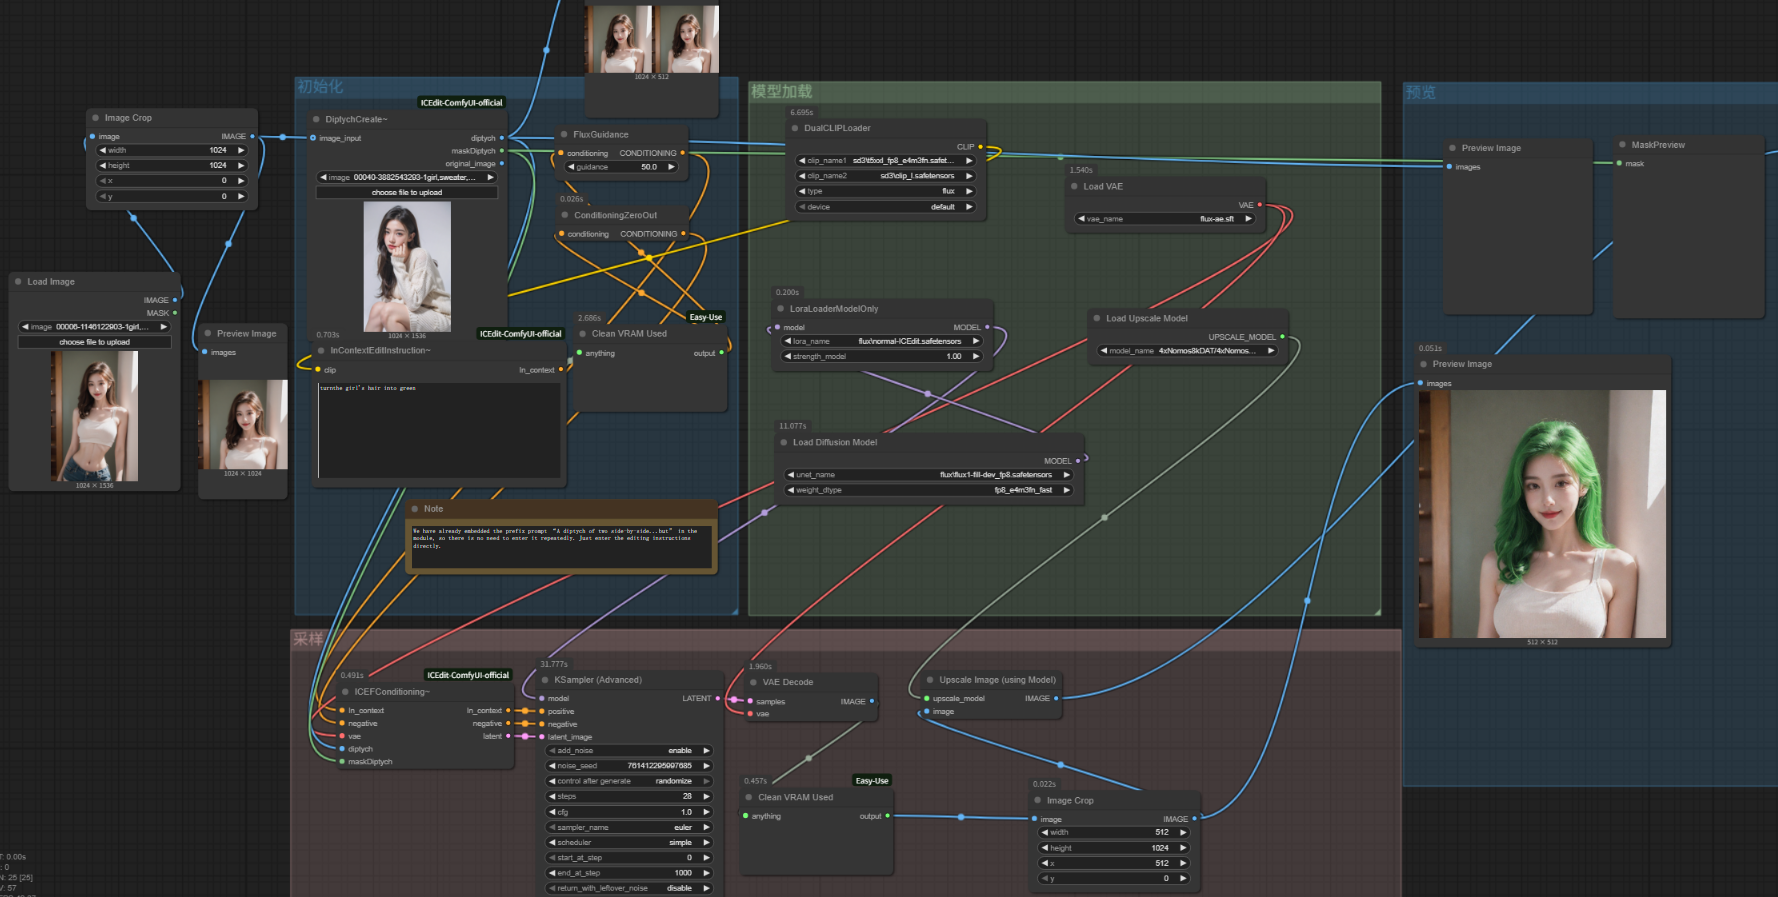
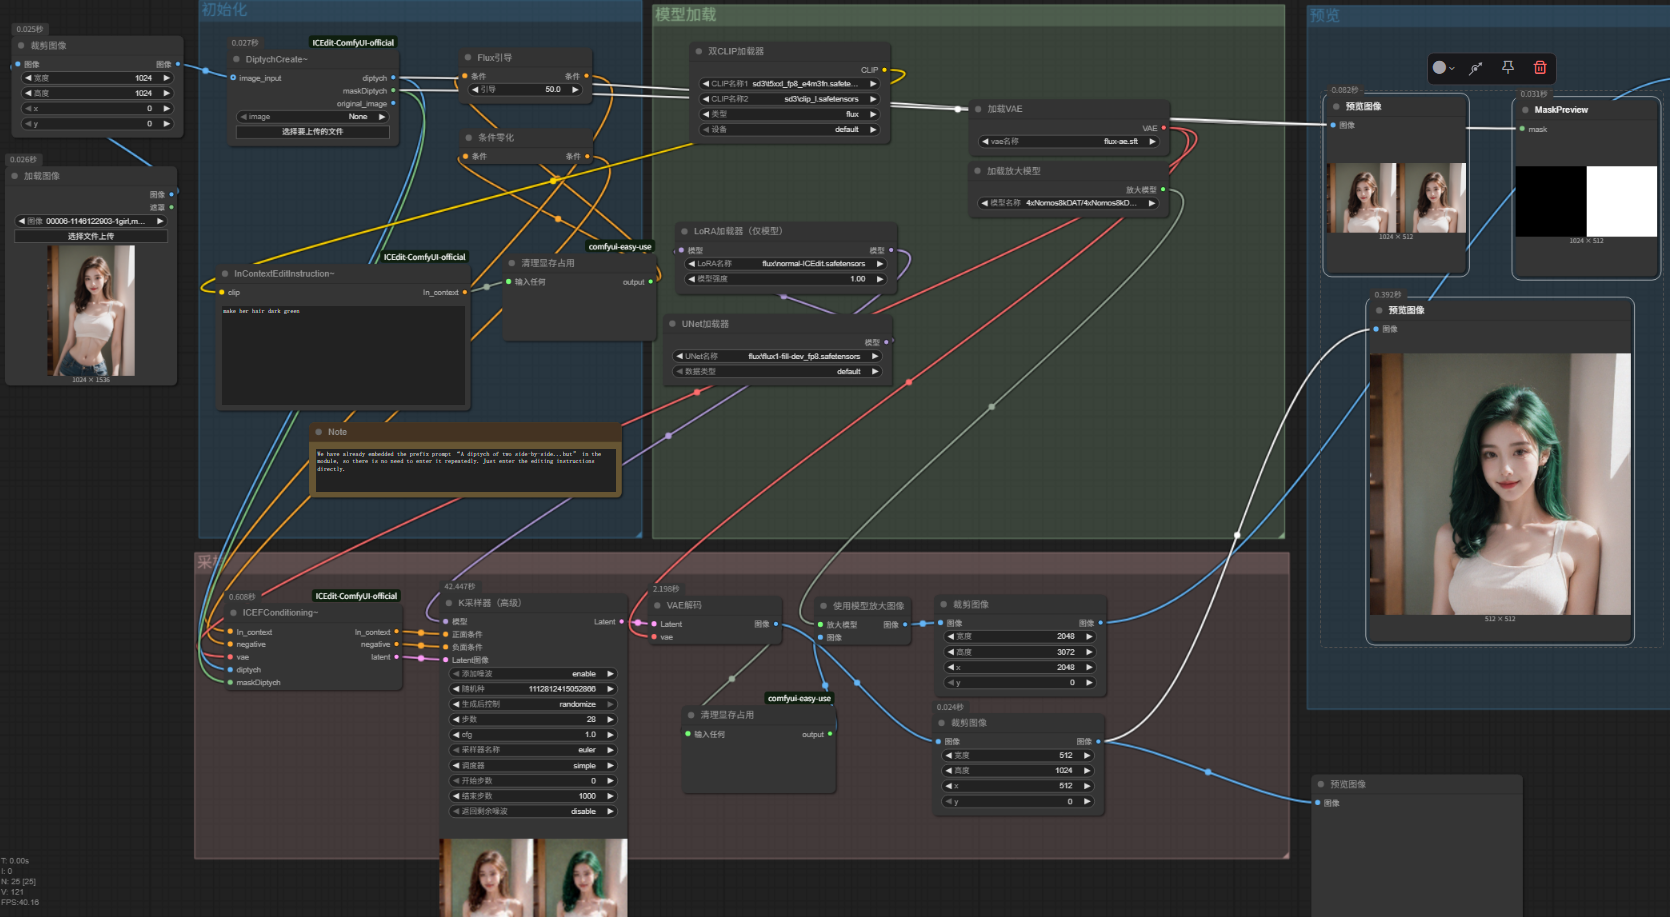
Added default parameter 'none' to DiptychCreate node to avoid requiring a local image to be loaded

diff --git a/ICEF_node.py b/ICEF_node.py
@@ -40,8 +40,9 @@ class DiptychCreate:
     def INPUT_TYPES(s):
         input_dir = folder_paths.get_input_directory()
         files = [f for f in os.listdir(input_dir) if os.path.isfile(os.path.join(input_dir, f))]
+        image_options = ["None"] + sorted(files)  # Add "None" as the first option
         return {"required":
-                    {"image": (sorted(files), {"image_upload": True})},
+                    {"image": (image_options, {"image_upload": True})}, # Use updated options
                 "optional": {
                     "image_input": ("IMAGE",)
                 }
@@ -91,16 +92,36 @@ class DiptychCreate:
 
         return width, height
     def create(self, image, image_input=None):
+        # Determine the source of the image
+        img_pil = None  # PIL Image object that will be processed
+        original_image_pil = None # PIL copy of the input image
+
         if image_input is not None:
-            # Convert tensor to PIL Image
+            # Use image_input if provided
             i = 255. * image_input.cpu().numpy().squeeze()
-            img = Image.fromarray(np.clip(i, 0, 255).astype(np.uint8))
-            original_image = img.copy()
-        else:
+            img_pil = Image.fromarray(np.clip(i, 0, 255).astype(np.uint8))
+            original_image_pil = img_pil.copy()
+        elif image != "None":
+            # No image_input, use local file if 'image' is not "None"
+            # VALIDATE_INPUTS should have ensured 'image' is a valid path if not "None"
             image_path = folder_paths.get_annotated_filepath(image)
-            img = node_helpers.pillow(Image.open, image_path)
-            img = node_helpers.pillow(ImageOps.exif_transpose, img)
-            original_image = img.copy()
+            img_pil = node_helpers.pillow(Image.open, image_path)
+            img_pil = node_helpers.pillow(ImageOps.exif_transpose, img_pil)
+            original_image_pil = img_pil.copy()
+        else:
+            # No image_input AND 'image' is "None" -> No image source
+            raise ValueError("DiptychCreate: No image source. Connect 'image_input' or select a local file (cannot be 'None' if 'image_input' is not connected).")
+
+        # Ensure img_pil is loaded, though the logic above should guarantee it or raise an error
+        if img_pil is None:
+             # This should not be reached if the logic above is correct
+            raise RuntimeError("DiptychCreate: Internal error - image not loaded.")
+
+        # The rest of the function expects variables 'img' and 'original_image'
+        # 'img' is the PIL image to be processed (resized, etc.)
+        # 'original_image' is the PIL copy used later for tensor conversion
+        img = img_pil
+        original_image = original_image_pil
 
 
         # if img.mode == 'I':
@@ -138,20 +159,29 @@ class DiptychCreate:
 
     @classmethod
     def IS_CHANGED(s, image, image_input=None):
-        if image_input is None:
+        if image_input is not None:
+            # If image_input is provided, its change is the primary determinant
+            return hashlib.sha256(image_input.tobytes()).hexdigest()
+        elif image != "None":
+            # If image_input is None, and a local image is selected
             image_path = folder_paths.get_annotated_filepath(image)
             m = hashlib.sha256()
             with open(image_path, 'rb') as f:
                 m.update(f.read())
             return m.digest().hex()
         else:
-            return hashlib.sha256(image_input.tobytes()).hexdigest()
+            # image_input is None and image is "None"
+            # Return a consistent hash for the "None" state if no input image.
+            return "NONE_IMAGE_SELECTED_NO_INPUT_HASH" # Unique string for this state
 
     @classmethod
     def VALIDATE_INPUTS(s, image):
+        if image == "None":
+            # "None" is a valid selection from the dropdown.
+            # The 'create' method will handle logic if no actual image data is available.
+            return True
         if not folder_paths.exists_annotated_filepath(image):
             return "Invalid image file: {}".format(image)
-
         return True
     
 class ICEFConditioning:
